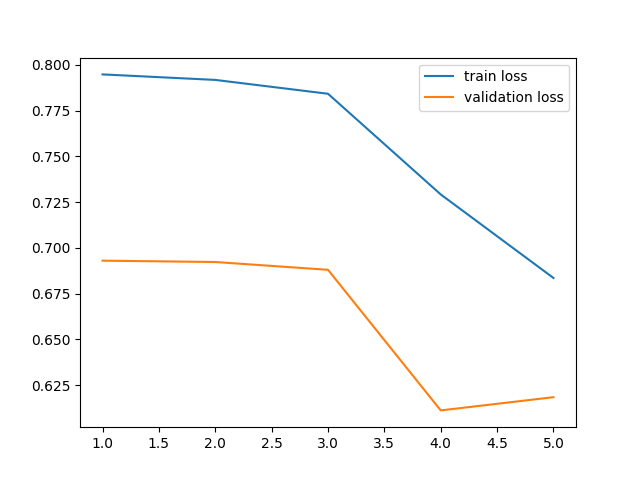
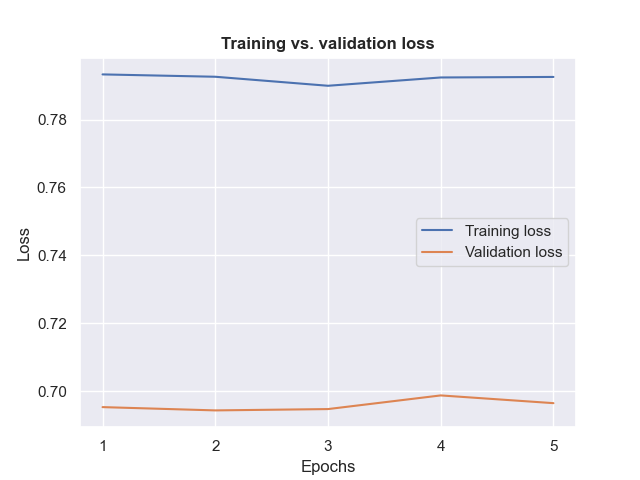
added changes to the plotting

diff --git a/src/utilities/lstm.py b/src/utilities/lstm.py
@@ -11,6 +11,7 @@ import numpy as np
 from datetime import datetime
 import matplotlib.pyplot as plt
 import seaborn as sns
+sns.set_theme()
 
 class LstmModel(nn.Module):
     def __init__(self):
@@ -98,8 +99,14 @@ class LSTM:
         # Save the development of loss: train vs val
         fig, ax = plt.subplots()
         x = [i for i in range(1, epochs+1)]
-        sns.lineplot(x, loss_train_hist, ax=ax, label='train loss')
-        sns.lineplot(x, loss_val_hist, ax=ax, label='validation loss')
+        sns.lineplot(x, loss_train_hist, ax=ax, label='Training loss')
+        sns.lineplot(x, loss_val_hist, ax=ax, label='Validation loss')
+        #ax.set_ylim([0, 1])
+        plt.xticks(x)
+        plt.title('Training vs. validation loss',weight="bold")
+        plt.xlabel('Epochs')
+        plt.ylabel('Loss')
+
 
         filename = datetime.now().strftime("%b-%d-%Y-%H--trainvsval_loss")
         fig.savefig(f'data/figures/{filename}')
